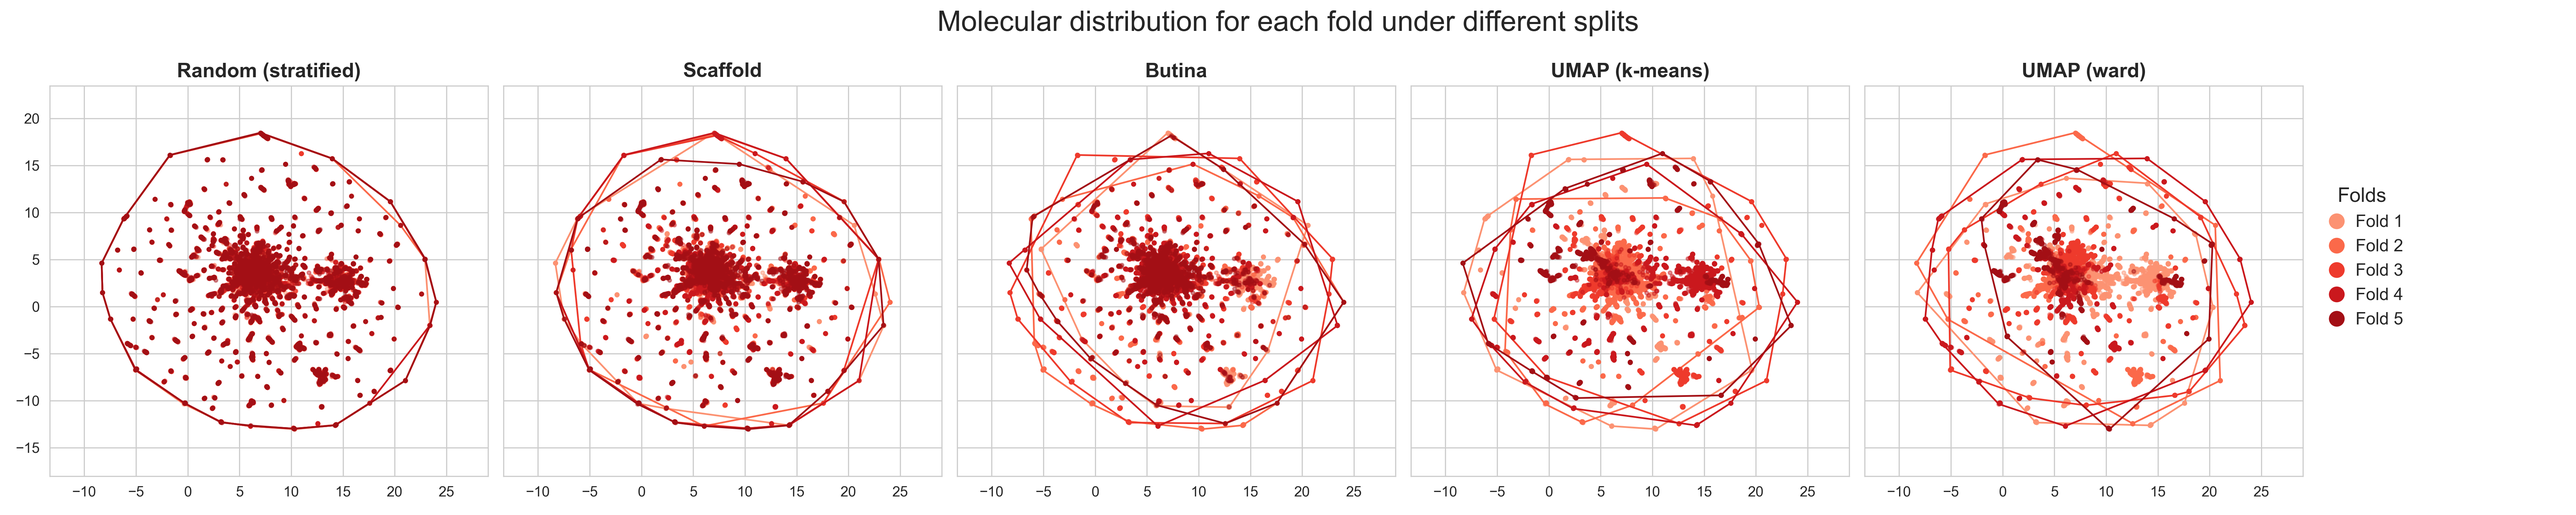
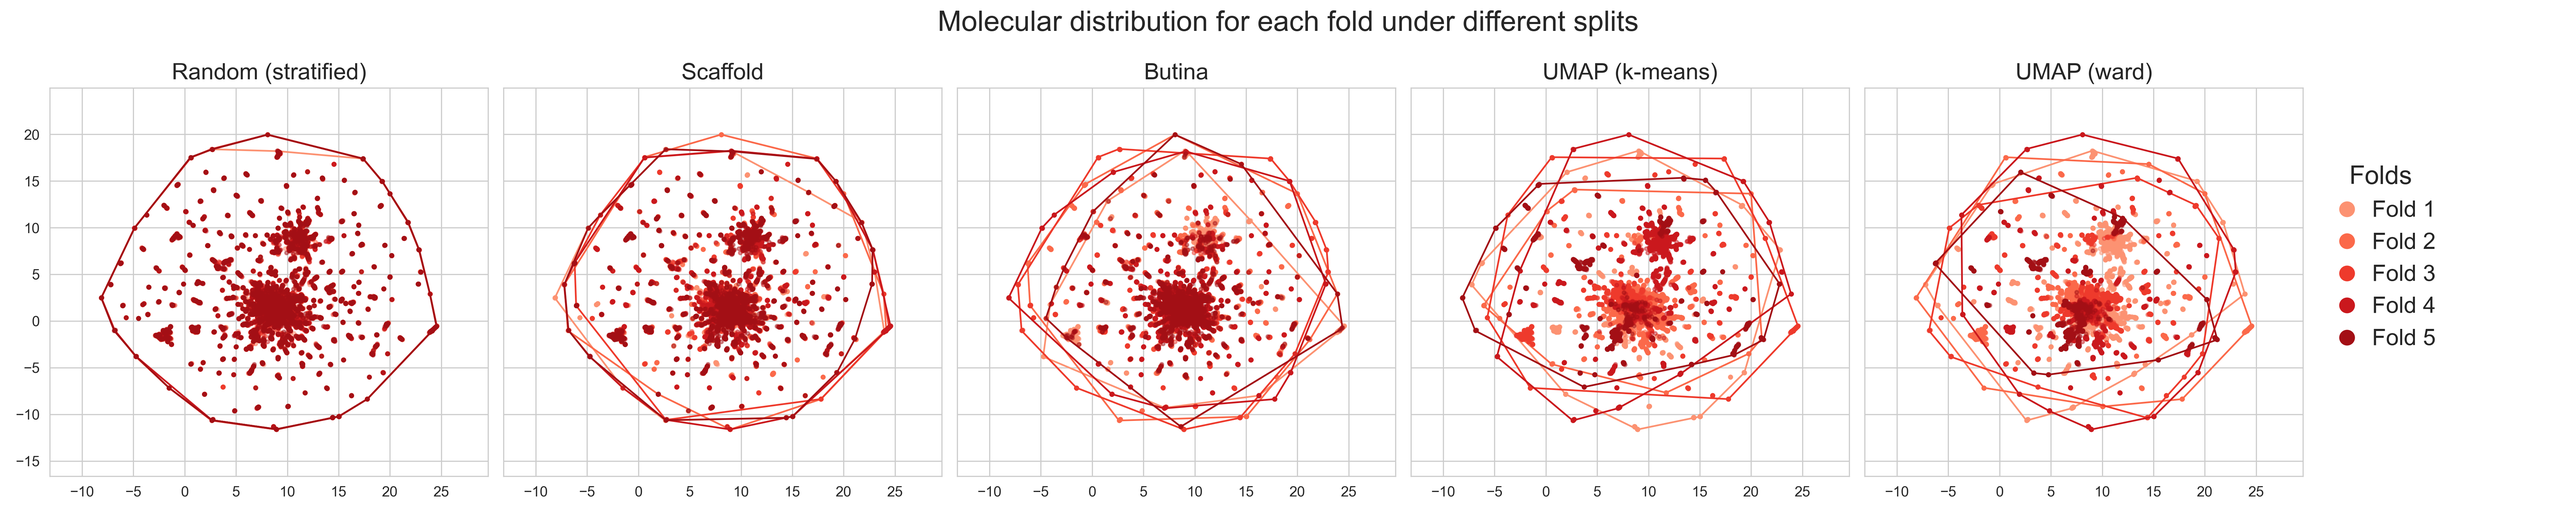
changes to tanimoto and global clustering

diff --git a/p1_preprocessing/4 - Data splitting/3 - splits_data_visualization/tanimoto_violin_plots/tanimoto_violin_visual.py b/p1_preprocessing/4 - Data splitting/3 - splits_data_visualization/tanimoto_violin_plots/tanimoto_violin_visual.py
@@ -188,13 +188,13 @@ def main():
     )
 
     # Use nicer method names on the x-axis
-    ax.set_xticklabels([DISPLAY_NAME.get(m, m) for m in order], rotation=0)
+    ax.set_xticklabels([DISPLAY_NAME.get(m, m) for m in order], rotation=0, fontsize=13)
 
     # Labels
-    ax.set_xlabel("Splitting Method")
-    ax.set_ylabel("Max Tanimoto Similarity to Training Set")
+    ax.set_xlabel("Splitting Method", fontsize=15)
+    ax.set_ylabel("Max Tanimoto Similarity to Training Set", fontsize=15)
     ax.set_ylim(0, 1.2)  # upper limit > 1 to leave space for text labels
-    ax.set_title("Train-Test Tanimoto by Split", pad=12)
+    ax.set_title("Train-Test Tanimoto by Split", pad=12, fontsize = 18)
 
     # Annotate percentiles & median
     x_pos = {m: i for i, m in enumerate(order)}
@@ -211,19 +211,19 @@ def main():
 
         # Median
         ax.hlines(med, x-0.28, x-0.08, colors="black", linewidth=1.3)
-        ax.text(x-0.35, med, f"{med:.2f}", ha="right", va="center", fontsize=9)
+        ax.text(x-0.35, med, f"{med:.2f}", ha="right", va="center", fontsize=10, fontweight="bold")
 
         # 5th/95th percentile
         ax.hlines(p95, x+0.08, x+0.28, colors="black", linewidth=1.3)
-        ax.text(x+0.35, p95, f"{p95:.2f}", ha="left",  va="center", fontsize=9)
+        ax.text(x+0.35, p95, f"{p95:.2f}", ha="left",  va="center", fontsize=10, fontweight="bold")
         ax.hlines(p05, x+0.08, x+0.28, colors="black", linewidth=1.3)
-        ax.text(x+0.35, p05, f"{p05:.2f}", ha="left",  va="center", fontsize=9)
+        ax.text(x+0.35, p05, f"{p05:.2f}", ha="left",  va="center", fontsize=10, fontweight="bold")
 
         # Q1 & Q3 labels
         ax.hlines(q1, x-0.08, x-0.28, colors="black", linewidth=1.3)
-        ax.text(x-0.35, q1, f"{q1:.2f}", ha="right", va="center", fontsize=9)
+        ax.text(x-0.35, q1, f"{q1:.2f}", ha="right", va="center", fontsize=10, fontweight="bold")
         ax.hlines(q3, x-0.08, x-0.28, colors="black", linewidth=1.3)
-        ax.text(x-0.35, q3, f"{q3:.2f}", ha="right", va="center", fontsize=9)
+        ax.text(x-0.35, q3, f"{q3:.2f}", ha="right", va="center",fontsize=10, fontweight="bold")
 
     # Out
     fig.tight_layout()

diff --git a/p1_preprocessing/4 - Data splitting/3 - splits_data_visualization/global_clustering_per_split/glob_cluster_vis.py b/p1_preprocessing/4 - Data splitting/3 - splits_data_visualization/global_clustering_per_split/glob_cluster_vis.py
@@ -91,8 +91,7 @@ for m in present:
 sns.set_style("whitegrid")
 
 # Subplots
-plt.rcParams["axes.titlesize"] = 14
-plt.rcParams["axes.titleweight"] = "bold"
+plt.rcParams["axes.titlesize"] = 16
 n = len(present)
 fig, axes = plt.subplots(1, n, figsize=(5*n, 5), sharex=True, sharey=True)
 if n == 1: axes = [axes]
@@ -138,8 +137,8 @@ fig.legend(
     handleheight=0.6,
     handletextpad=0.2,
     labelspacing=0.5,
-    prop={"size": 12},
-    title_fontsize=14)
+    prop={"size": 16},
+    title_fontsize=18)
 
 
 # Suptitle, layout, save
